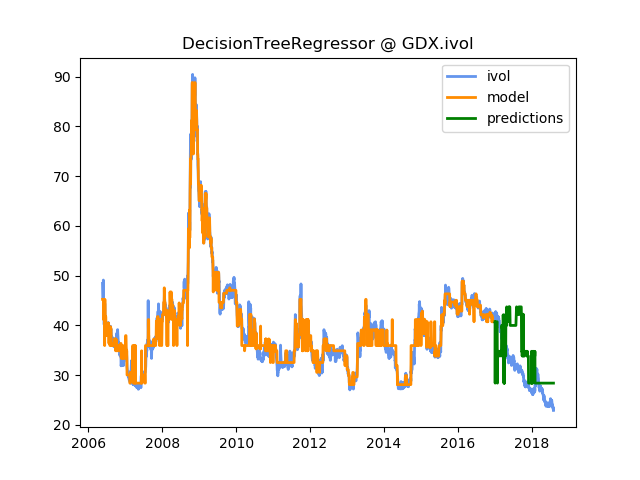
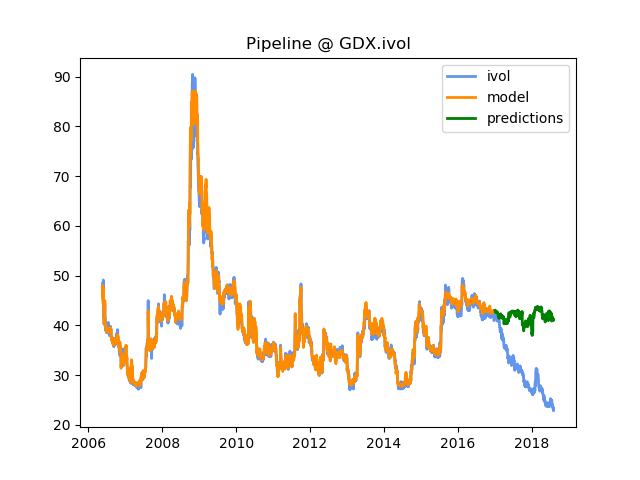
Add keras regressor

diff --git a/ml/train.py b/ml/train.py
@@ -114,6 +114,70 @@ scaler.transform(X_train)
 clf = MLPRegressor(hidden_layer_sizes=(1024, 1024), solver="sgd", activation="tanh",
                    alpha=0.0001, batch_size=64, max_iter=10000, tol=0.00001, shuffle=True)
 '''
+# ************************************************************
+# neural network with tensorflow
+# ************************************************************
+import tensorflow as tf
+import keras
+from keras.models import Sequential
+from keras.layers import Dense, Dropout
+from keras.wrappers.scikit_learn import KerasRegressor
+from sklearn.model_selection import cross_val_score
+from sklearn.model_selection import KFold
+from sklearn.preprocessing import StandardScaler
+from sklearn.pipeline import Pipeline
+
+config = tf.ConfigProto( device_count = {'GPU': 1 , 'CPU': 4} ) 
+sess = tf.Session(config=config) 
+keras.backend.set_session(sess)
+
+from tensorflow.python.client import device_lib
+#print(device_lib.list_local_devices())
+from keras import backend as keras_backend
+#print(keras_backend.tensorflow_backend._get_available_gpus())
+
+# fix random seed for reproducibility
+seed = 7
+np.random.seed(seed)
+
+def baseline_model():
+    # create model
+    model = Sequential()
+    model.add(Dense(256, 
+                    input_dim=len(df_features.columns), 
+                    kernel_initializer='normal', 
+                    activation='sigmoid'))
+    model.add(Dropout(0.2))
+    model.add(Dense(256, 
+                    input_dim=len(df_features.columns), 
+                    kernel_initializer='normal', 
+                    activation='sigmoid'))
+    model.add(Dropout(0.2))
+    model.add(Dense(256, 
+                    input_dim=len(df_features.columns), 
+                    kernel_initializer='normal', 
+                    activation='sigmoid'))
+    model.add(Dropout(0.2))
+    model.add(Dense(1, 
+                    kernel_initializer='normal'))
+    # Compile model
+    model.compile(loss='mean_squared_error', optimizer='adam')
+    return model
+
+step_scaler = StandardScaler()
+step_regressor = KerasRegressor(build_fn=baseline_model, epochs=100, batch_size=8, verbose=2)
+steps = []
+steps.append(('step_scaler', step_scaler))
+steps.append(('step_regressor', step_regressor))
+pipeline = Pipeline(steps)
+clf = pipeline
+# kfold = KFold(n_splits=3, random_state=seed)
+# cross_val_scores = cross_val_score(pipeline, X_train, y_train, cv=kfold)
+# Results: -19376733.79 (49264686.37) MSE (no scaling)
+# Results: -144.28 (148.91) MSE (relu, [62*1])
+# Results: -59.37 (44.19) MSE (sigmoid, [62*1])
+# Results: -87.21 (28.69) MSE (sigmoid, [62,32,1]) - deeper
+# Results: -53.58 (32.51) MSE (sigmoid, [512,1]) - wider
 
 clf.fit(X_train, y_train)
 print('Accuracy on training set: {:.2f}'.format(clf.score(X_train, y_train)))
@@ -132,10 +196,11 @@ plt.plot(df_test_plot['date'], df_test_plot['ivol'], label='', c="cornflowerblue
 plt.plot(df_test_plot['date'], df_test_plot['model'], label='predictions', c="green", linewidth=2)
 plt.title(str(clf).split('(')[0] + " @ " + target)
 plt.legend()
-#plt.show()
+plt.show()
 plt.savefig(target + "_plot.png")
 
 # show tree
+'''
 from sklearn.externals.six import StringIO  
 from IPython.display import Image  
 from sklearn.tree import export_graphviz
@@ -149,63 +214,3 @@ graph = pydotplus.graph_from_dot_data(dot_data.getvalue())
 img = Image(graph.create_png())
 with open(target + "_tree.png", "wb") as png:
     png.write(img.data)
-    
-# ************************************************************
-# neural network with tensorflow
-# ************************************************************
-import tensorflow as tf
-from sklearn.preprocessing import MinMaxScaler
-X_scaler = MinMaxScaler()
-y_scaler = MinMaxScaler()
-X_train_scaled = X_scaler.fit_transform(X_train)
-X_test_scaled = X_scaler.transform(X_test)
-y_train_scaled = y_scaler.fit_transform(y_train.reshape(-1, 1))
-y_test_scaled = y_scaler.transform(y_test.reshape(-1, 1))
-
-def neural_net_model(X_data, input_dim):
-    """
-    neural_net_model is function applying 2 hidden layer feed forward neural net.
-    Weights and biases are abberviated as W_1, W_2 and b_1, b_2 
-    These are variables with will be updated during training.
-    """ 
-    W_1 = tf.Variable(tf.random_uniform([input_dim, 10]))
-    b_1 = tf.Variable(tf.zeros([10]))
-    layer_1 = tf.add(tf.matmul(X_data, W_1), b_1)
-    layer_1 = tf.nn.relu(layer_1)
-    # layer 1 multiplying and adding bias then activation function
-    W_2 = tf.Variable(tf.random_uniform([10,10]))
-    b_2 = tf.Variable(tf.zeros([10]))
-    layer_2 = tf.add(tf.matmul(layer_1, W_2), b_2)
-    layer_2 = tf.nn.relu(layer_2)
-    # layer 2 multiplying and adding bias then activation function
-    W_O = tf.Variable(tf.random_uniform([10,1]))
-    b_O = tf.Variable(tf.zeros([1]))
-    output = tf.add(tf.matmul(layer_2, W_O), b_O)
-    # O/p layer multiplying and adding bias then activation function
-    # notice output layer has one node only since performing regression
-    return output
-
-xs = tf.placeholder("float")
-ys = tf.placeholder("float")
-output = neural_net_model(xs, 3)
-# Cost function to minimize: mean squared error
-cost = tf.reduce_mean(tf.square(output-ys))
-train = tf.train.GradientDescentOptimizer(0.001).minimize(cost)
-# Gradinent Descent optimization for updating weights and biases
-
-with tf.Session() as sess:
-    # Initiate session and initialize all vaiables
-    sess.run(tf.global_variables_initializer())
-    saver = tf.train.Saver()
-    #saver.restore(sess,'yahoo_dataset.ckpt')
-    for i in range(100):
-        for j in range(X_train.shape[0]):
-            sess.run([cost,train],feed_dict=    {xs:X_train[j,:].reshape(1,3), ys:y_train[j]})
-            # Run cost and train with each sample
-        c_t.append(sess.run(cost, feed_dict={xs:X_train,ys:y_train}))
-        c_test.append(sess.run(cost, feed_dict={xs:X_test,ys:y_test}))
-        print('Epoch :', i, 'Cost :', c_t[i])
-    pred = sess.run(output, feed_dict={xs:X_test})
-    # predict output of test data after training
-    print('Cost :',sess.run(cost, feed_dict={xs:X_test,ys:y_test}))
-    #saver.save(sess,'tfmodel.ckpt')
